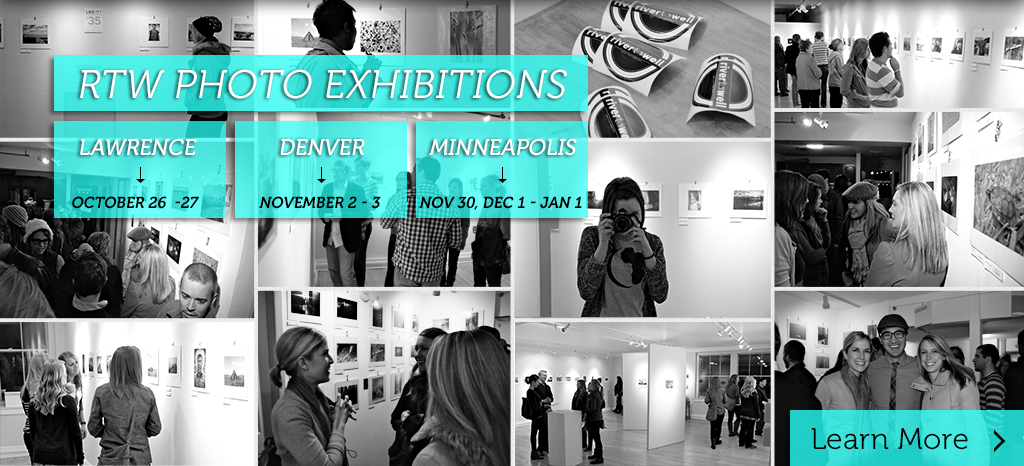
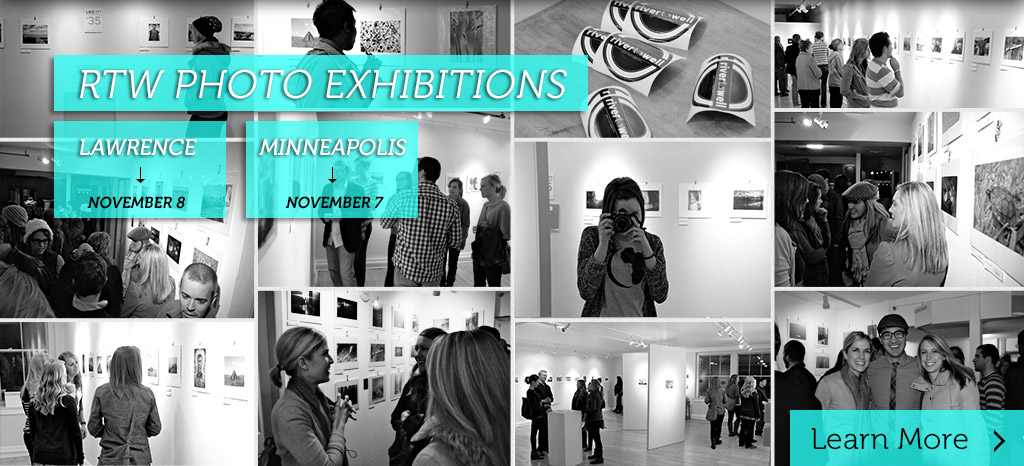
Update for events

Changed region(s): [[0.2188, 0.2403, 0.5938, 0.4807], [0.0625, 0.4206, 0.1875, 0.4506]]

diff --git a/index.html b/index.html
@@ -84,6 +84,7 @@
 
     <div id="hero" class="hero section">
       <ul id="herocarousel" class="reset">
+        <li class="slide"><a href="events.html"><img src="img/hero/RTW_Hero-Events.jpg" width="1024" height="466" /></a></li>
         <li class="slide"><a href="update2013.html"><img src="img/hero/RTW-update.jpg" width="1024" height="466" /></a></li>
         <li class="slide five"><a href="http://voxunited.org/" target="_blank"><img src="img/hero/RTW_Hero-VOX.jpg" width="1024" height="466" /></a></li>
       </ul>

diff --git a/events.html b/events.html
@@ -91,8 +91,7 @@
             <h4>Minneapolis, MN</h4>
             <p class="strong">Ambiente Gallerie</p>
             <p class="strong">505 1st Avenue Northeast, Minneapolis, MN 55413</p>
-            <p>December 7th, 2013 -- RTW exhibit will be </p>
-            <p>up during Ambiente's normal business hours.</p>
+            <p>December 7th, 2013 @ 6:00pm-9:00pm </p>
             <p><a href="http://ambientegallerie.com/">http://ambientegallerie.com/</a></p>
           </div>
         </li>
